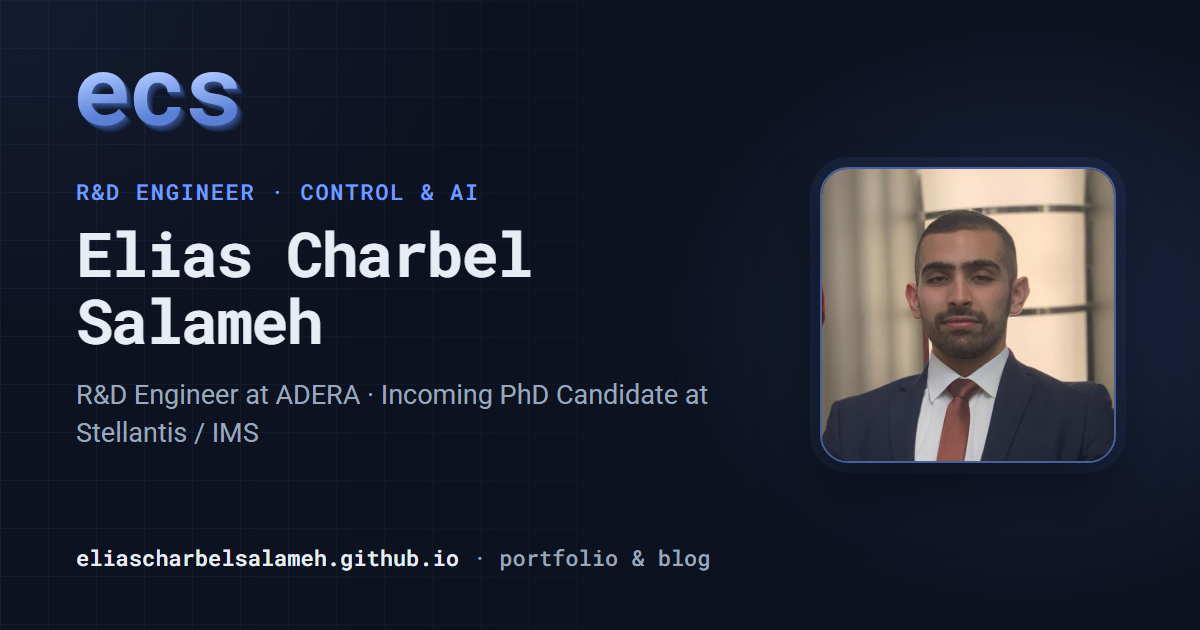
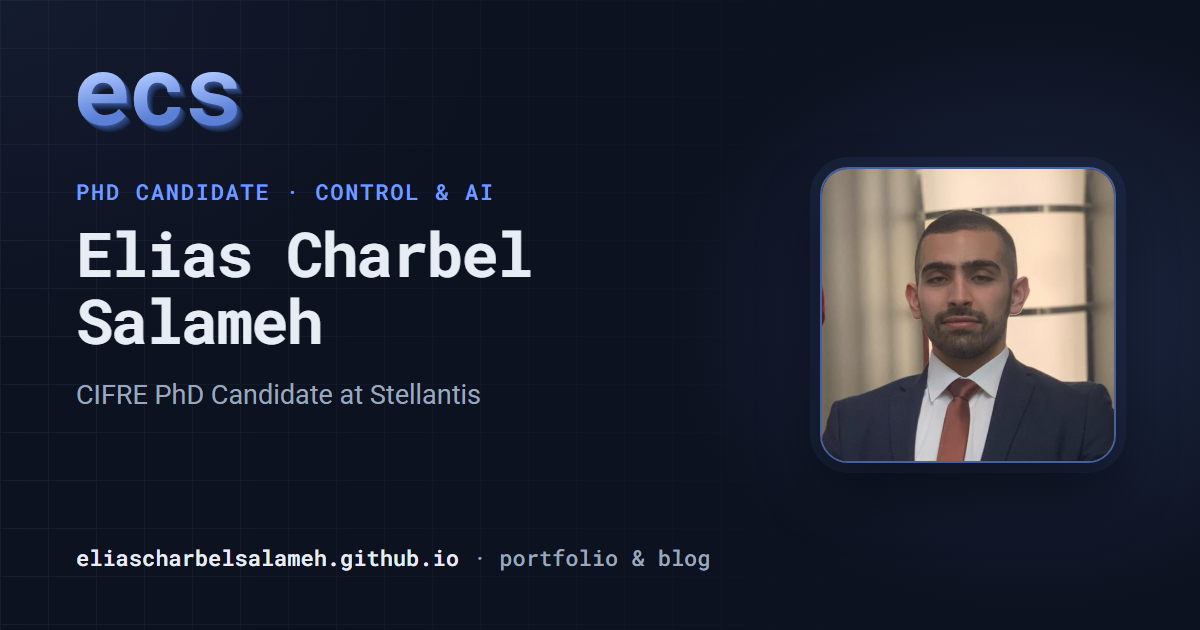
Start the CIFRE PhD in December 2026, end the ADERA contract in November
- CIFRE PhD: Dec 2026 to present; R&D Engineer at ADERA: Sep to Nov 2026
- Headline, page title, descriptions, link previews and the preview image
  now read "CIFRE PhD Candidate at Stellantis"
- The map draws an ongoing entry whose start is still ahead as upcoming
  (dashed) until its start month comes

Claude-Session: https://claude.ai/code/session_01XXXDzzJPEuU5BEgLxvQ1ZT

Changed region(s): [[0.0617, 0.6032, 0.5858, 0.7238], [0.0617, 0.2714, 0.4008, 0.3317]]

diff --git a/index.html b/index.html
@@ -7,8 +7,8 @@
        profile.pageTitle / pageDescription in data.js (app.js swaps in the
        French pair when the page is shown in French). -->
   <!-- build:meta -->
-  <title>Elias Charbel Salameh · R&amp;D Engineer &amp; Incoming CIFRE PhD</title>
-  <meta name="description" content="R&amp;D engineer at ADERA, incoming CIFRE PhD candidate with Stellantis / IMS, working on robotics, control and AI for certifiable, low-consumption automotive algorithms." />
+  <title>Elias Charbel Salameh · CIFRE PhD Candidate at Stellantis</title>
+  <meta name="description" content="CIFRE PhD candidate at Stellantis, working on robotics, control and AI for certifiable, low-consumption automotive algorithms." />
   <!-- /build:meta -->
   <meta name="author" content="Elias Charbel Salameh" />
   <meta name="color-scheme" content="light dark" />
@@ -25,16 +25,16 @@
   <meta property="og:type" content="profile" />
   <meta property="og:site_name" content="Elias Charbel Salameh" />
   <meta property="og:url" content="https://eliascharbelsalameh.github.io/" />
-  <meta property="og:title" content="Elias Charbel Salameh · R&D Engineer & Incoming CIFRE PhD" />
-  <meta property="og:description" content="R&D engineer at ADERA, incoming CIFRE PhD candidate with Stellantis / IMS. An interactive, filterable timeline of research, engineering, leadership and academic work." />
+  <meta property="og:title" content="Elias Charbel Salameh · CIFRE PhD Candidate at Stellantis" />
+  <meta property="og:description" content="CIFRE PhD candidate at Stellantis. An interactive, filterable timeline of research, engineering, leadership and academic work." />
   <meta property="og:image" content="https://eliascharbelsalameh.github.io/assets/images/og-cover.png" />
   <meta property="og:image:width" content="1200" />
   <meta property="og:image:height" content="630" />
-  <meta property="og:image:alt" content="Elias Charbel Salameh, R&D engineer in control and AI" />
+  <meta property="og:image:alt" content="Elias Charbel Salameh, CIFRE PhD candidate in control and AI" />
   <meta property="og:locale" content="en_US" />
   <meta name="twitter:card" content="summary_large_image" />
-  <meta name="twitter:title" content="Elias Charbel Salameh · R&D Engineer & Incoming CIFRE PhD" />
-  <meta name="twitter:description" content="R&D engineer at ADERA, incoming CIFRE PhD candidate with Stellantis / IMS. An interactive, filterable timeline of research, engineering, leadership and academic work." />
+  <meta name="twitter:title" content="Elias Charbel Salameh · CIFRE PhD Candidate at Stellantis" />
+  <meta name="twitter:description" content="CIFRE PhD candidate at Stellantis. An interactive, filterable timeline of research, engineering, leadership and academic work." />
   <meta name="twitter:image" content="https://eliascharbelsalameh.github.io/assets/images/og-cover.png" />
 
   <!-- Structured data for search engines (schema.org Person, WebSite and
@@ -49,7 +49,7 @@
         "@id": "https://eliascharbelsalameh.github.io/#website",
         "url": "https://eliascharbelsalameh.github.io/",
         "name": "Elias Charbel Salameh",
-        "description": "R&D engineer at ADERA, incoming CIFRE PhD candidate with Stellantis / IMS, working on robotics, control and AI for certifiable, low-consumption automotive algorithms.",
+        "description": "CIFRE PhD candidate at Stellantis, working on robotics, control and AI for certifiable, low-consumption automotive algorithms.",
         "inLanguage": "en",
         "publisher": {
           "@id": "https://eliascharbelsalameh.github.io/#person"
@@ -59,7 +59,7 @@
         "@type": "ProfilePage",
         "@id": "https://eliascharbelsalameh.github.io/#profile",
         "url": "https://eliascharbelsalameh.github.io/",
-        "name": "Elias Charbel Salameh · R&D Engineer & Incoming CIFRE PhD",
+        "name": "Elias Charbel Salameh · CIFRE PhD Candidate at Stellantis",
         "inLanguage": "en",
         "isPartOf": {
           "@id": "https://eliascharbelsalameh.github.io/#website"
@@ -67,7 +67,7 @@
         "mainEntity": {
           "@id": "https://eliascharbelsalameh.github.io/#person"
         },
-        "dateModified": "2026-11-16T00:00:00+01:00"
+        "dateModified": "2026-11-22T00:00:00+01:00"
       },
       {
         "@type": "Person",
@@ -75,7 +75,7 @@
         "name": "Elias Charbel Salameh",
         "url": "https://eliascharbelsalameh.github.io/",
         "image": "https://eliascharbelsalameh.github.io/assets/images/profile.jpg",
-        "jobTitle": "R&D Engineer at ADERA · Incoming PhD Candidate at Stellantis / IMS",
+        "jobTitle": "CIFRE PhD Candidate at Stellantis",
         "description": "Combining model-based control and data-driven solutions to provide low consumption and certifiable smart automotive algorithms. Hands-on experience across control systems, computer vision, SLAM and deep learning.",
         "email": "mailto:esalameh@proton.me",
         "telephone": "+33 7 83 75 76 69",
@@ -84,12 +84,6 @@
           "addressLocality": "Bordeaux",
           "addressCountry": "France"
         },
-        "worksFor": [
-          {
-            "@type": "Organization",
-            "name": "ADERA"
-          }
-        ],
         "alumniOf": [
           {
             "@type": "EducationalOrganization",
@@ -326,7 +320,7 @@
         <div class="hero-text">
           <!-- build:hero -->
           <h1 class="hero-name" id="hero-name">Elias Charbel SALAMEH</h1>
-          <p class="hero-role" id="hero-role">R&amp;D Engineer at ADERA · Incoming PhD Candidate at Stellantis / IMS</p>
+          <p class="hero-role" id="hero-role">CIFRE PhD Candidate at Stellantis</p>
           <p class="hero-loc" id="hero-loc"><span>Bordeaux, France</span></p>
           <p class="hero-tagline" id="hero-tagline">Combining model-based control and data-driven solutions to provide low consumption and certifiable smart automotive algorithms.</p>
           <p class="hero-summary" id="hero-summary">Hands-on experience across control systems, computer vision, SLAM and deep learning.</p>
@@ -464,16 +458,16 @@
             <ul class="tl-static-list">
               <li class="tl-static-item">
                 <h4>CIFRE PhD: Mixed AI / Control for Embedded Automotive Algorithms</h4>
-                <p class="tl-static-meta"><span>Upcoming</span> · Stellantis / IMS Bordeaux · Talence, France</p>
+                <p class="tl-static-meta"><span>Dec 2026 – Present</span> · Stellantis / IMS Bordeaux · Talence, France</p>
                 <p>Industry-funded (CIFRE) doctorate with Stellantis and the IMS laboratory, on mixed AI / model-based approaches for low-consumption, certifiable embedded smart automotive algorithms.</p>
                 <p class="tl-static-tags">CIFRE · Embedded AI · Certifiability · Automotive · Control Systems</p>
                 <p class="tl-static-links"><a href="https://www.ims-bordeaux.fr/">IMS, integration lab (CNRS / Univ. Bordeaux / Bordeaux INP)</a> · <a href="https://www.stellantis.com/">Stellantis, global automotive manufacturer</a></p>
               </li>
               <li class="tl-static-item">
                 <h4>R&amp;D Engineer, Embedded AI &amp; Control (CDD)</h4>
-                <p class="tl-static-meta"><span>Sep 2026 – Present</span> · ADERA · Bordeaux, France</p>
+                <p class="tl-static-meta"><span>Sep 2026 – Nov 2026</span> · ADERA · Bordeaux, France</p>
                 <p>Mixed AI / model-based approaches for low-consumption, certifiable embedded smart automotive algorithms.</p>
-                <ul><li>Same supervisors and same research project as the upcoming CIFRE doctorate with Stellantis and IMS: the thesis work, started ahead of time.</li></ul>
+                <ul><li>Same supervisors and same research project as the CIFRE doctorate with Stellantis and IMS that followed it: the thesis work, started ahead of time.</li></ul>
                 <p class="tl-static-tags">Embedded AI · Certifiability · Automotive · Energy Efficiency · Control Systems</p>
               </li>
               <li class="tl-static-item">

diff --git a/assets/js/data.js b/assets/js/data.js
@@ -110,8 +110,8 @@ window.PORTFOLIO = {
     name: "Elias Charbel SALAMEH",
     initials: "ecs",                       // shown (in capitals) on the player card only if the photo can't load
     photo: "assets/images/profile.jpg",   // square photo on the player card in the hero
-    role: "R&D Engineer at ADERA · Incoming PhD Candidate at Stellantis / IMS",
-    role_fr: "Ingénieur R&D chez ADERA · Futur doctorant CIFRE chez Stellantis / IMS",
+    role: "CIFRE PhD Candidate at Stellantis",
+    role_fr: "Doctorant CIFRE chez Stellantis",
     tagline: "Combining model-based control and data-driven solutions to provide low consumption and certifiable smart automotive algorithms.",
     tagline_fr: "Alliant commande basée modèle et solutions pilotées par les données pour des algorithmes automobiles intelligents, certifiables et à faible consommation.",
     // One line under the tagline. The role and tagline already say where you
@@ -119,18 +119,18 @@ window.PORTFOLIO = {
     summary: "Hands-on experience across control systems, computer vision, SLAM and deep learning.",
     summary_fr: "Compétences pratiques en commande, vision par ordinateur, SLAM et apprentissage profond.",
     // Short "position" line on the player card in the hero, under your name.
-    position: "R&D engineer · control & AI",
-    position_fr: "Ingénieur R&D · automatique & IA",
+    position: "PhD candidate · control & AI",
+    position_fr: "Doctorant · automatique & IA",
     location: "Bordeaux, France",
     // Browser-tab title and search-engine description. `node tools/build.mjs`
     // copies the English pair into <title> and <meta name="description"> in
     // index.html (crawlers read those without JavaScript); the French pair is
     // swapped in when the page is shown in French.
-    pageTitle: "Elias Charbel Salameh · R&D Engineer & Incoming CIFRE PhD",
-    pageTitle_fr: "Elias Charbel Salameh · Ingénieur R&D et futur doctorant CIFRE",
-    pageDescription: "R&D engineer at ADERA, incoming CIFRE PhD candidate with Stellantis / IMS, working on robotics, control and AI for certifiable, low-consumption automotive algorithms.",
-    pageDescription_fr: "Ingénieur R&D chez ADERA, futur doctorant CIFRE avec Stellantis / IMS : robotique, automatique et IA pour des algorithmes automobiles certifiables et à faible consommation.",
-    updated: "2026-11-16",   // "last updated on" date in the footer and the home page's sitemap <lastmod>; bump it when you edit the site
+    pageTitle: "Elias Charbel Salameh · CIFRE PhD Candidate at Stellantis",
+    pageTitle_fr: "Elias Charbel Salameh · Doctorant CIFRE chez Stellantis",
+    pageDescription: "CIFRE PhD candidate at Stellantis, working on robotics, control and AI for certifiable, low-consumption automotive algorithms.",
+    pageDescription_fr: "Doctorant CIFRE chez Stellantis : robotique, automatique et IA pour des algorithmes automobiles certifiables et à faible consommation.",
+    updated: "2026-11-22",   // "last updated on" date in the footer and the home page's sitemap <lastmod>; bump it when you edit the site
     // Contacts: edit freely. Set any to "" to hide it.
     email: "esalameh@proton.me",
     phone: "+33 7 83 75 76 69",
@@ -238,7 +238,7 @@ window.PORTFOLIO = {
       title_fr: "Doctorat CIFRE : approches hybrides IA / automatique pour l'automobile embarquée",
       org: "Stellantis / IMS Bordeaux",
       location: "Talence, France",
-      start: "upcoming",
+      start: "2026-12", end: "present",
       kind: "research",
       importance: 5,
       categories: ["research", "academic", "technical"],
@@ -267,7 +267,7 @@ window.PORTFOLIO = {
       title_fr: "Ingénieur R&D, IA embarquée & automatique (CDD)",
       org: "ADERA",
       location: "Bordeaux, France",
-      start: "2026-09", end: "present",
+      start: "2026-09", end: "2026-11",
       kind: "experience",
       importance: 5,
       categories: ["research", "technical"],
@@ -279,10 +279,10 @@ window.PORTFOLIO = {
         "Approches hybrides IA / automatique pour la synthèse d'algorithmes embarqués " +
         "intelligents, certifiables et à faible consommation pour l'automobile.",
       highlights: [
-        "Same supervisors and same research project as the upcoming CIFRE doctorate with Stellantis and IMS: the thesis work, started ahead of time."
+        "Same supervisors and same research project as the CIFRE doctorate with Stellantis and IMS that followed it: the thesis work, started ahead of time."
       ],
       highlights_fr: [
-        "Mêmes encadrants et même projet de recherche que le doctorat CIFRE à venir avec Stellantis et l'IMS : les travaux de thèse, engagés en amont."
+        "Mêmes encadrants et même projet de recherche que le doctorat CIFRE avec Stellantis et l'IMS qui a suivi : les travaux de thèse, engagés en amont."
       ],
       tags: ["Embedded AI", "Certifiability", "Automotive", "Energy Efficiency", "Control Systems"],
       tags_fr: ["IA embarquée", "Certifiabilité", "Automobile", "Efficacité énergétique", "Automatique"]

diff --git a/blog/about-me-and-this-blog/index.html b/blog/about-me-and-this-blog/index.html
@@ -20,7 +20,7 @@
   <meta property="og:image" content="https://eliascharbelsalameh.github.io/assets/images/og-cover.png" />
   <meta property="og:image:width" content="1200" />
   <meta property="og:image:height" content="630" />
-  <meta property="og:image:alt" content="Elias Charbel Salameh, R&amp;D engineer · control &amp; AI" />
+  <meta property="og:image:alt" content="Elias Charbel Salameh, PhD candidate · control &amp; AI" />
   <meta property="og:locale" content="en_US" />
   <meta property="article:published_time" content="2026-11-16" />
   <meta property="article:modified_time" content="2026-11-16" />
@@ -194,7 +194,7 @@ and embedded AI, and the projects and teaching around them.</p>
 <a href="https://www.linkedin.com/in/eliascharbelsalameh">LinkedIn</a>.</p>
         </div>
         <footer class="post-author">
-          <p><strong>Elias Charbel Salameh</strong> · R&amp;D Engineer at ADERA · Incoming PhD Candidate at Stellantis / IMS.</p>
+          <p><strong>Elias Charbel Salameh</strong> · CIFRE PhD Candidate at Stellantis.</p>
           <p><a href="../../">See the portfolio</a> · <a href="#contact">Get in touch</a></p>
         </footer>
       </article>

diff --git a/blog/index.html b/blog/index.html
@@ -20,7 +20,7 @@
   <meta property="og:image" content="https://eliascharbelsalameh.github.io/assets/images/og-cover.png" />
   <meta property="og:image:width" content="1200" />
   <meta property="og:image:height" content="630" />
-  <meta property="og:image:alt" content="Elias Charbel Salameh, R&amp;D engineer · control &amp; AI" />
+  <meta property="og:image:alt" content="Elias Charbel Salameh, PhD candidate · control &amp; AI" />
   <meta property="og:locale" content="en_US" />
   <meta name="twitter:card" content="summary_large_image" />
   <meta name="twitter:title" content="Blog · Elias Charbel Salameh" />

diff --git a/tools/og-cover.html b/tools/og-cover.html
@@ -68,9 +68,9 @@
       </g>
       <use href="#w" fill="url(#face)"/>
     </svg>
-    <p class="eyebrow">R&amp;D engineer · control &amp; AI</p>
+    <p class="eyebrow">PhD candidate · control &amp; AI</p>
     <h1>Elias Charbel Salameh</h1>
-    <p class="role">R&amp;D Engineer at ADERA · Incoming PhD Candidate at Stellantis / IMS</p>
+    <p class="role">CIFRE PhD Candidate at Stellantis</p>
   </div>
   <p class="url">eliascharbelsalameh.github.io <span>· portfolio &amp; blog</span></p>
   <div class="photo"><img src="../assets/images/profile.jpg" alt="" /></div>

diff --git a/assets/js/app.js b/assets/js/app.js
@@ -1764,6 +1764,8 @@
         if (it.end === "present") sp.e = NOW;
         else if (it.end) sp.e = monthIdx(it.end) + 1;
         else { sp.kind = "point"; sp.s += 0.5; sp.e = sp.s; }
+        // an ongoing entry whose start month hasn't come yet: drawn as upcoming
+        if (it.end === "present" && sp.s > NOW) { sp.e = TO; sp.kind = "upcoming"; }
       }
       var name = laneOf(it);
       (lanes[name] = lanes[name] || []).push(sp);
